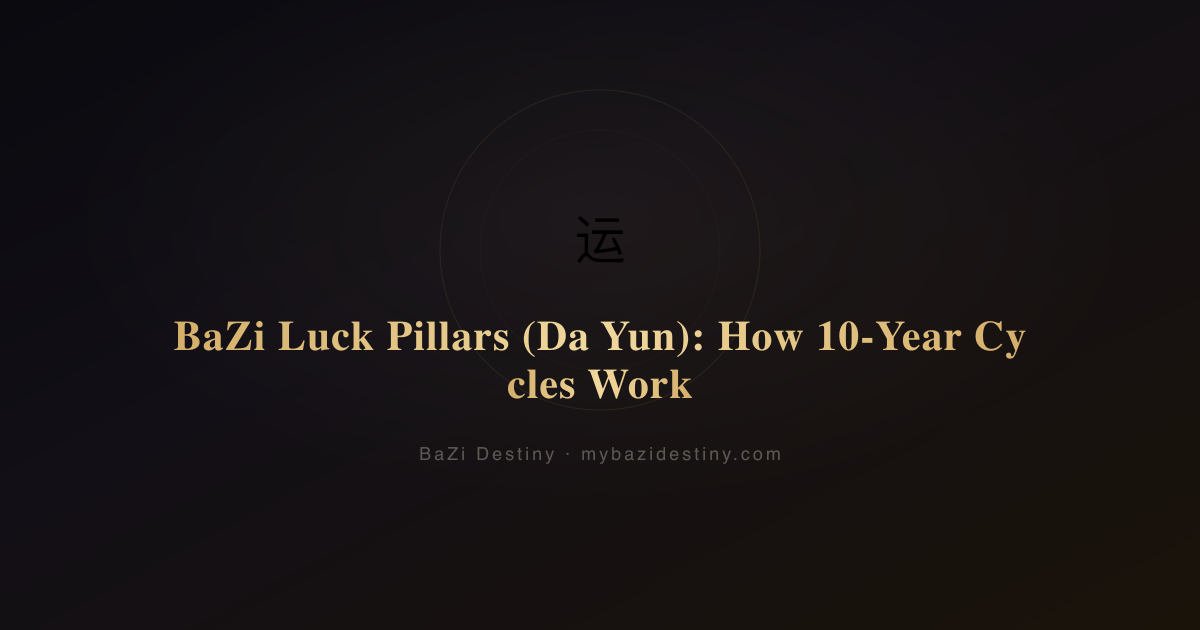
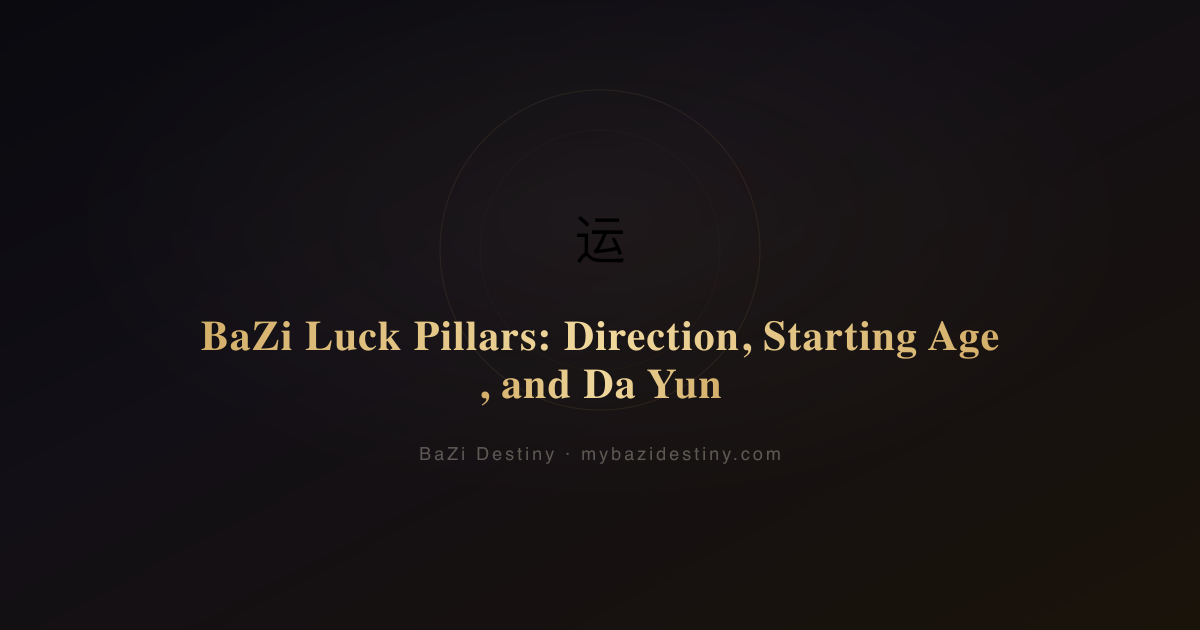
Optimize Luck Pillars search intent

Changed region(s): [[0.1233, 0.5127, 0.8633, 0.6333]]

diff --git a/src/content/blog/bazi-luck-pillars.md b/src/content/blog/bazi-luck-pillars.md
@@ -1,11 +1,12 @@
 ---
-title: "BaZi Luck Pillars (Da Yun): How 10-Year Cycles Work"
-seoTitle: "BaZi Luck Pillars: How Da Yun 10-Year Cycles Work"
-description: "Learn how BaZi Luck Pillars are sequenced from the Month Pillar, how direction and starting age are determined, and why a birth year alone is insufficient."
+title: "BaZi Luck Pillars: Direction, Starting Age, and Da Yun"
+seoTitle: "BaZi Luck Pillars: Direction, Starting Age & Da Yun"
+description: "Learn how BaZi Luck Pillar direction is set, why male and female yin-yang rules differ, and how Da Yun starting age is estimated from solar terms."
 emoji: "运"
 tag: "BaZi Guide"
 pubDate: 2026-07-29
-readTime: "8 min read"
+updatedDate: 2026-08-13
+readTime: "10 min read"
 ---
 
 **Luck Pillars (大运, Da Yun)** are consecutive stem-branch pairs used in BaZi to organize life into broad phases, commonly described as 10-year cycles. They are not calculated from the Chinese zodiac animal alone, and they are not generic decade-by-age personality descriptions.
@@ -30,8 +31,21 @@ Review the [Four Pillars structure](/what-is-bazi.html) before working with timi
 
 Many Zi Ping traditions determine direction by combining the polarity of the birth-year Heavenly Stem with sex or gender. A common convention is:
 
-- Yang-year male and yin-year female: forward.
-- Yin-year male and yang-year female: reverse.
+| Birth-year stem polarity | Traditional male rule | Traditional female rule |
+| --- | --- | --- |
+| Yang year stem | Forward | Reverse |
+| Yin year stem | Reverse | Forward |
+
+In short: **yang-year male and yin-year female charts move forward; yin-year male and yang-year female charts move in reverse** under this convention.
+
+To apply the rule:
+
+1. Identify the Heavenly Stem of the natal Year Pillar.
+2. Classify that stem as yang or yin.
+3. Apply the sex or gender convention used by the chosen school.
+4. Move forward or backward from the natal Month Pillar through the sexagenary cycle.
+
+For example, Xin (辛) is a yin Heavenly Stem. Under the common rule above, a traditional male chart born in a Xin year moves in reverse, while a traditional female chart born in a Xin year moves forward. The Year Stem sets direction; it does not supply the Luck Pillar sequence itself. The sequence still begins from the Month Pillar.
 
 Terminology and rules can differ among lineages. Some practitioners apply different conventions or handle gender outside the traditional binary differently. A responsible calculator should state which method it uses rather than presenting one convention as universal.
 
@@ -40,6 +54,16 @@ Terminology and rules can differ among lineages. Some practitioners apply differ
 Luck Pillars do not necessarily begin exactly at age 10. The starting age is traditionally estimated from the time between birth and a relevant solar term, using the forward or reverse direction.
 
 A frequently used conversion treats approximately three days as one year, with smaller intervals converted into months and days. Other schools use slightly different solar-term choices and conversion details. Because of these differences, two reputable calculators may produce nearby but non-identical starting ages.
+
+### Simplified starting-age example
+
+Suppose the selected directional rule measures nine days from birth to the relevant Jie solar term. Using the common three-days-to-one-year conversion:
+
+```text
+9 days / 3 = approximately 3 years old
+```
+
+If the interval were seven days, the same simplified conversion would give about two years and four months. This only illustrates the arithmetic. A real calculation must first select the correct forward or reverse solar term and use the exact birth time, location, calendar data, and school convention.
 
 This is why claims such as “everyone born in 1994 enters the same career cycle at age 30” are invalid. People born in the same year can have different Month Pillars, directions, starting ages, and chart interactions.
 

diff --git a/src/content/blog/bazi-ten-gods.md b/src/content/blog/bazi-ten-gods.md
@@ -107,6 +107,6 @@ This example shows the derivation, not a complete reading. The same Ten God can 
 
 Begin with structure: calculate the Four Pillars, identify the Day Master, map the visible and hidden stems, and then classify their relationships. Only after that should traditional meanings be considered.
 
-Our current calculator identifies the Four Pillars and Day Master but does not yet generate a complete Ten Gods analysis. Use it to establish the chart, then consult this guide as an educational reference.
+Our current calculator identifies the Four Pillars and Day Master but does not yet generate a complete Ten Gods analysis. Use it to establish the chart, then consult this guide as an educational reference. The [BaZi Luck Pillars guide](/bazi-luck-pillars.html) explains how those relationships are examined again within each Da Yun cycle.
 
 [Generate your Four Pillars chart](/calculator.html) · [How to read a BaZi chart](/how-to-read-bazi-chart.html) · [Complete BaZi guide](/complete-guide-bazi.html)

diff --git a/src/content/blog/bazi-wealth-analysis.md b/src/content/blog/bazi-wealth-analysis.md
@@ -84,7 +84,7 @@ Every BaZi chart has wealth potential — the question is *how* and *when*, not 
 
 ## Wealth Through Your Luck Cycles
 
-Your Luck Cycles (大运) are 10-year periods that shift the elemental emphasis of your life. A person can experience dramatically different financial realities in different cycles:
+Your Luck Cycles (大运) are 10-year periods that shift the elemental emphasis of your life. The [BaZi Luck Pillars guide](/bazi-luck-pillars.html) explains how Da Yun direction and starting age are calculated. A person can experience dramatically different financial realities in different cycles:
 
 | Luck Cycle Element | Wealth Impact |
 |---|---|
